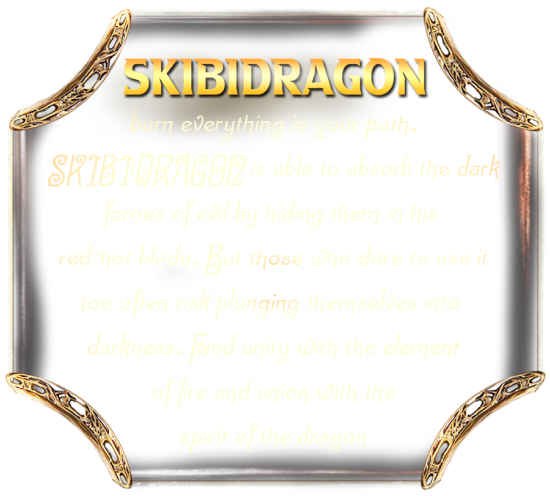
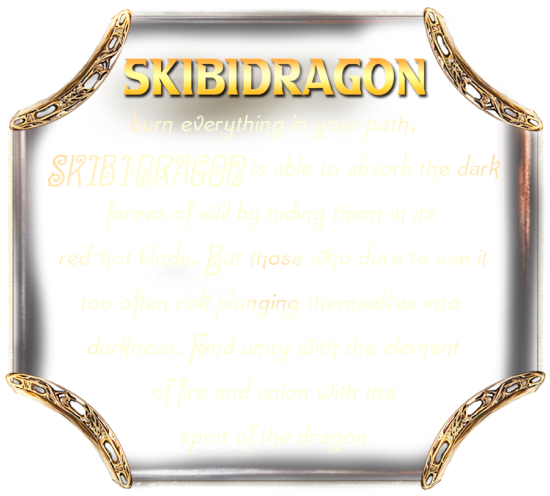
fixes

Changed region(s): [[0.1855, 0.3931, 0.8036, 0.4536]]

diff --git a/src/pages/EngVersion.jsx b/src/pages/EngVersion.jsx
@@ -54,15 +54,15 @@ const EngVersion = () => {
          </Section>
          <Slide image={_2}>
             <ShockSword />
-            <DescriptionFrame x={39} y={7} width={56} frame={shockframe} />
+            <DescriptionFrame x={37} y={7} width={58} frame={shockframe} />
          </Slide>
          <Slide image={_3} zIndex={1}>
             <CosSword />
-            <DescriptionFrame x={5} y={7} width={61} frame={cosframe} />
+            <DescriptionFrame x={5} y={7} width={58} frame={cosframe} />
          </Slide>
          <Slide image={_4}>
             <DragonSword />
-            <DescriptionFrame x={35} y={3} width={61} frame={dragonframe} />
+            <DescriptionFrame x={37} y={3} width={58} frame={dragonframe} />
          </Slide>
          <Slide image={_5} />
          <Slide image={_6}>

diff --git a/src/pages/RusVersion.jsx b/src/pages/RusVersion.jsx
@@ -52,15 +52,15 @@ const RusVersion = () => {
          </Section>
          <Slide image={_2}>
             <ShockSword />
-            <DescriptionFrame x={39} y={7} width={56} frame={shockframe} />
+            <DescriptionFrame x={37} y={7} width={58} frame={shockframe} />
          </Slide>
          <Slide image={_3} zIndex={1}>
             <CosSword />
-            <DescriptionFrame x={5} y={7} width={61} frame={cosframe} />
+            <DescriptionFrame x={5} y={7} width={58} frame={cosframe} />
          </Slide>
          <Slide image={_4}>
             <DragonSword />
-            <DescriptionFrame x={35} y={3} width={61} frame={dragonframe} />
+            <DescriptionFrame x={37} y={3} width={58} frame={dragonframe} />
          </Slide>
          <Slide image={_5} />
          <Slide image={_6}>

diff --git a/src/components/UI/CopyrightText/CopyrightText.module.scss b/src/components/UI/CopyrightText/CopyrightText.module.scss
@@ -2,7 +2,7 @@
    color: white;
    font-size: 1.9rem;
    text-align: center;
-   font-family: "Aparajita", "Sylfaen";
+   font-family: "Aparajita", Times;
    filter: drop-shadow(2px 2px 1.5px rgba(0, 0, 0, 0.5));
 
    margin: 0 auto;
@@ -23,7 +23,7 @@
    color: white;
    font-size: 1.4rem;
    text-align: center;
-   font-family: "Aparajita", "Sylfaen";
+   font-family: "Sylfaen", Times;
    filter: drop-shadow(2px 2px 1.5px rgba(0, 0, 0, 0.5));
 
    margin: 0 auto;

diff --git a/src/App.jsx b/src/App.jsx
@@ -17,7 +17,7 @@ const router = createBrowserRouter([
    {
       path: "/",
       element: <AutoRedirect />,
-      errorElement: "Error",
+      errorElement: <Navigate to="/" />,
    },
    {
       path: "en/",
@@ -26,10 +26,6 @@ const router = createBrowserRouter([
    {
       path: "ru/",
       element: <RusVersion />,
-   },
-   {
-      path: ":lang/termsofuse",
-      element: <TermsOfUse />,
    },
    {
       path: ":lang/termsofuse",

diff --git a/src/components/Form/index.jsx b/src/components/Form/index.jsx
@@ -121,7 +121,7 @@ const Form = ({ lang }) => {
          .then((response) => response.json())
          .then((data) => {
             setOrdered(true);
-            alert(`Order sent successfully!`);
+            // alert(`Order sent successfully!`);
          })
          .catch((error) => {
             console.error("Error sending order:", error);

diff --git a/src/components/Form/TextInput/index.jsx b/src/components/Form/TextInput/index.jsx
@@ -7,6 +7,7 @@ const TextInput = forwardRef(({ placeholder, error, ...props }, ref) => {
    const bright = {
       filter: "drop-shadow(rgb(255, 0, 0) 0px 0px) saturate(1.7)",
       WebkitFilter: "drop-shadow(rgb(255, 0, 0) 0px 0px) saturate(1.7)",
+      MozFilter: "drop-shadow(rgb(255, 0, 0) 0px 0px) saturate(1.7)",
    };
 
    return (

diff --git a/src/components/Form/ItemSelect/index.jsx b/src/components/Form/ItemSelect/index.jsx
@@ -52,7 +52,6 @@ const ItemSelect = ({
             value={totalPrice}
             displayType={"text"}
             thousandSeparator={" "}
-            prefix={false}
             renderText={(value) => (
                <h1 className={styles.total}>
                   <span className={styles.prefix}>{locales.totalHeading}</span>{" "}

diff --git a/src/components/Form/Form.module.scss b/src/components/Form/Form.module.scss
@@ -37,7 +37,8 @@
          color: #e6e2cf;
          font-size: 19px;
          text-align: center;
-         text-wrap: nowrap;
+         white-space: nowrap;
+
          width: 100%;
          line-height: 125%;
 
